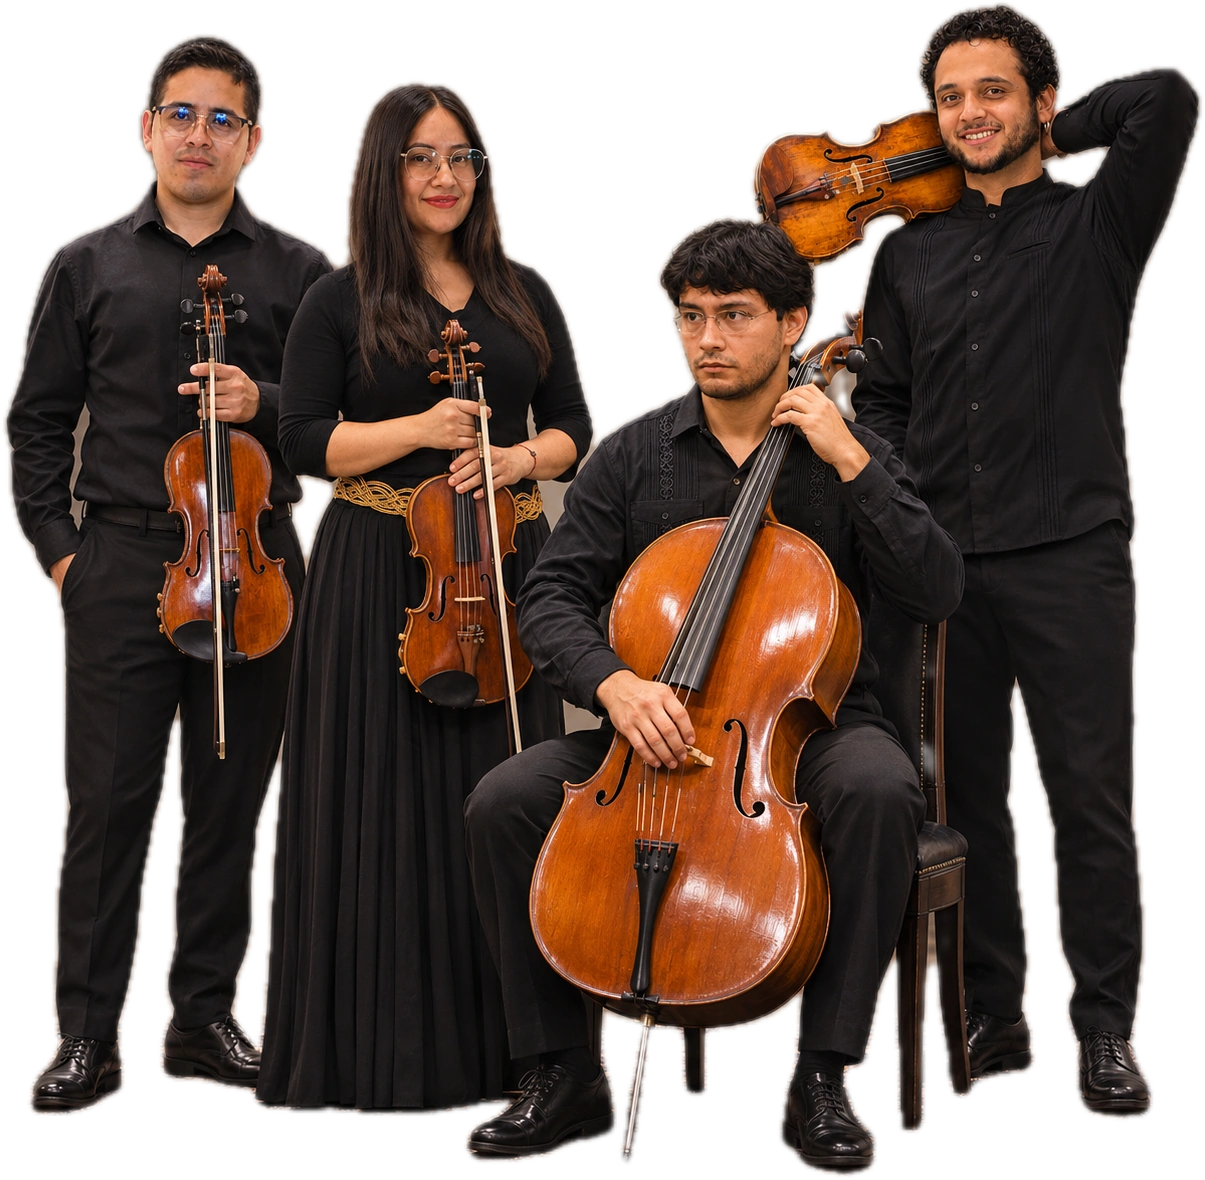
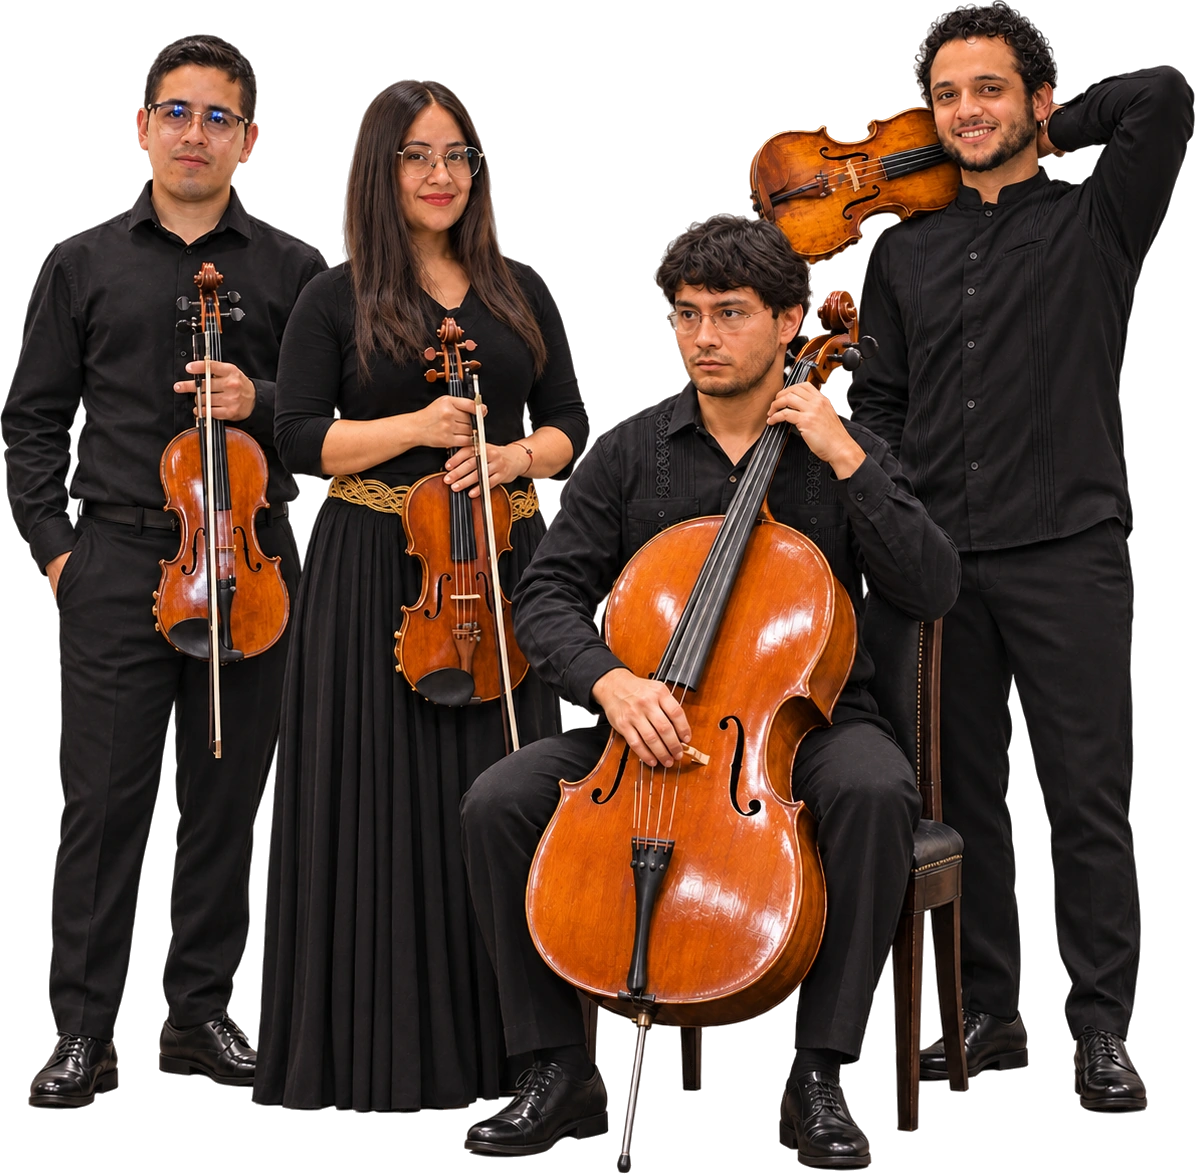
fix(about): the group's cut-out redone with clean edges

diff --git a/constants/about.const.ts b/constants/about.const.ts
@@ -25,8 +25,8 @@ export const ABOUT_DEFAULTS: AboutDefaults = {
 export const ABOUT_GROUP = {
   src: "/images/cuarteto-grupo.webp",
   alt: "Los cuatro integrantes del Cuarteto Fratres con sus instrumentos: dos violines, viola y violonchelo",
-  width: 1205,
-  height: 1180,
+  width: 1195,
+  height: 1174,
 } as const;
 
 /** Fixed copy of the about section's frame. */

diff --git a/IMPROVEMENTS.md b/IMPROVEMENTS.md
@@ -151,9 +151,8 @@ fixed cut-out of the group (`ABOUT_GROUP` in `constants/about.const.ts`,
 `public/images/cuarteto-grupo.webp`), placed by hand in front of the title, so
 the photo uploaded to `/admin › Secciones › El cuarteto` is read but not drawn.
 Either drop the field (migration, plus the seed and `about.mapper`) or let the
-editors upload a transparent cut-out there and read it again. The cut-out came
-out of macOS Vision: its edges carry a faint light rim on the dark clothes; a
-hand-cleaned version would fix it.
+editors upload a transparent cut-out there and read it again. The cut-out was
+redone with ChatGPT on 2026-11-13 (clean edges, no light rim).
 
 ## Hero texts in the CMS no longer shown
 
